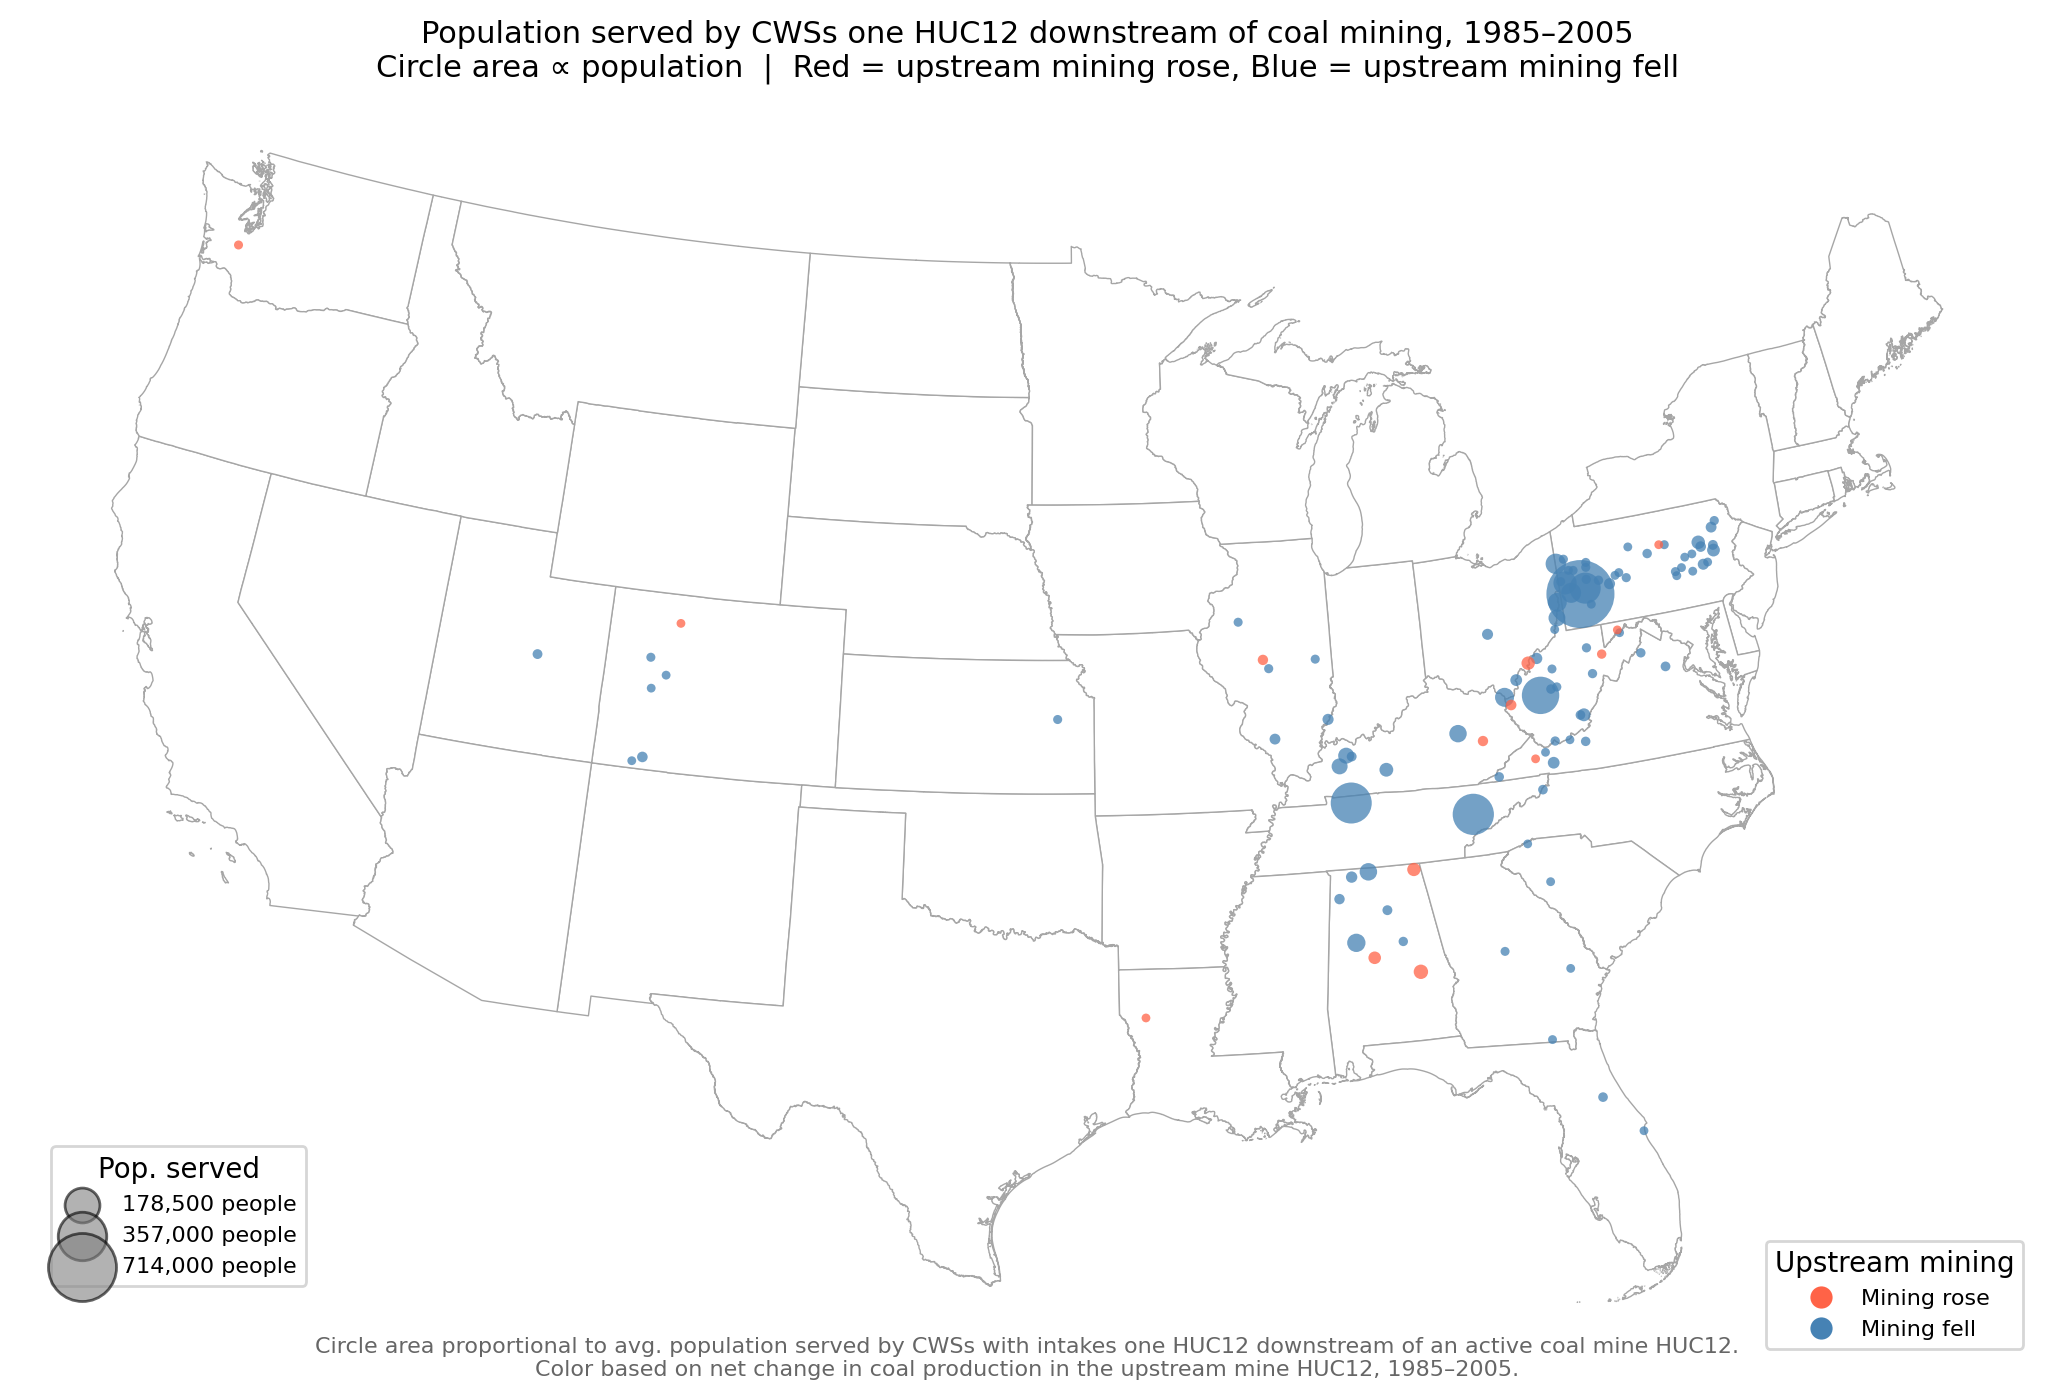
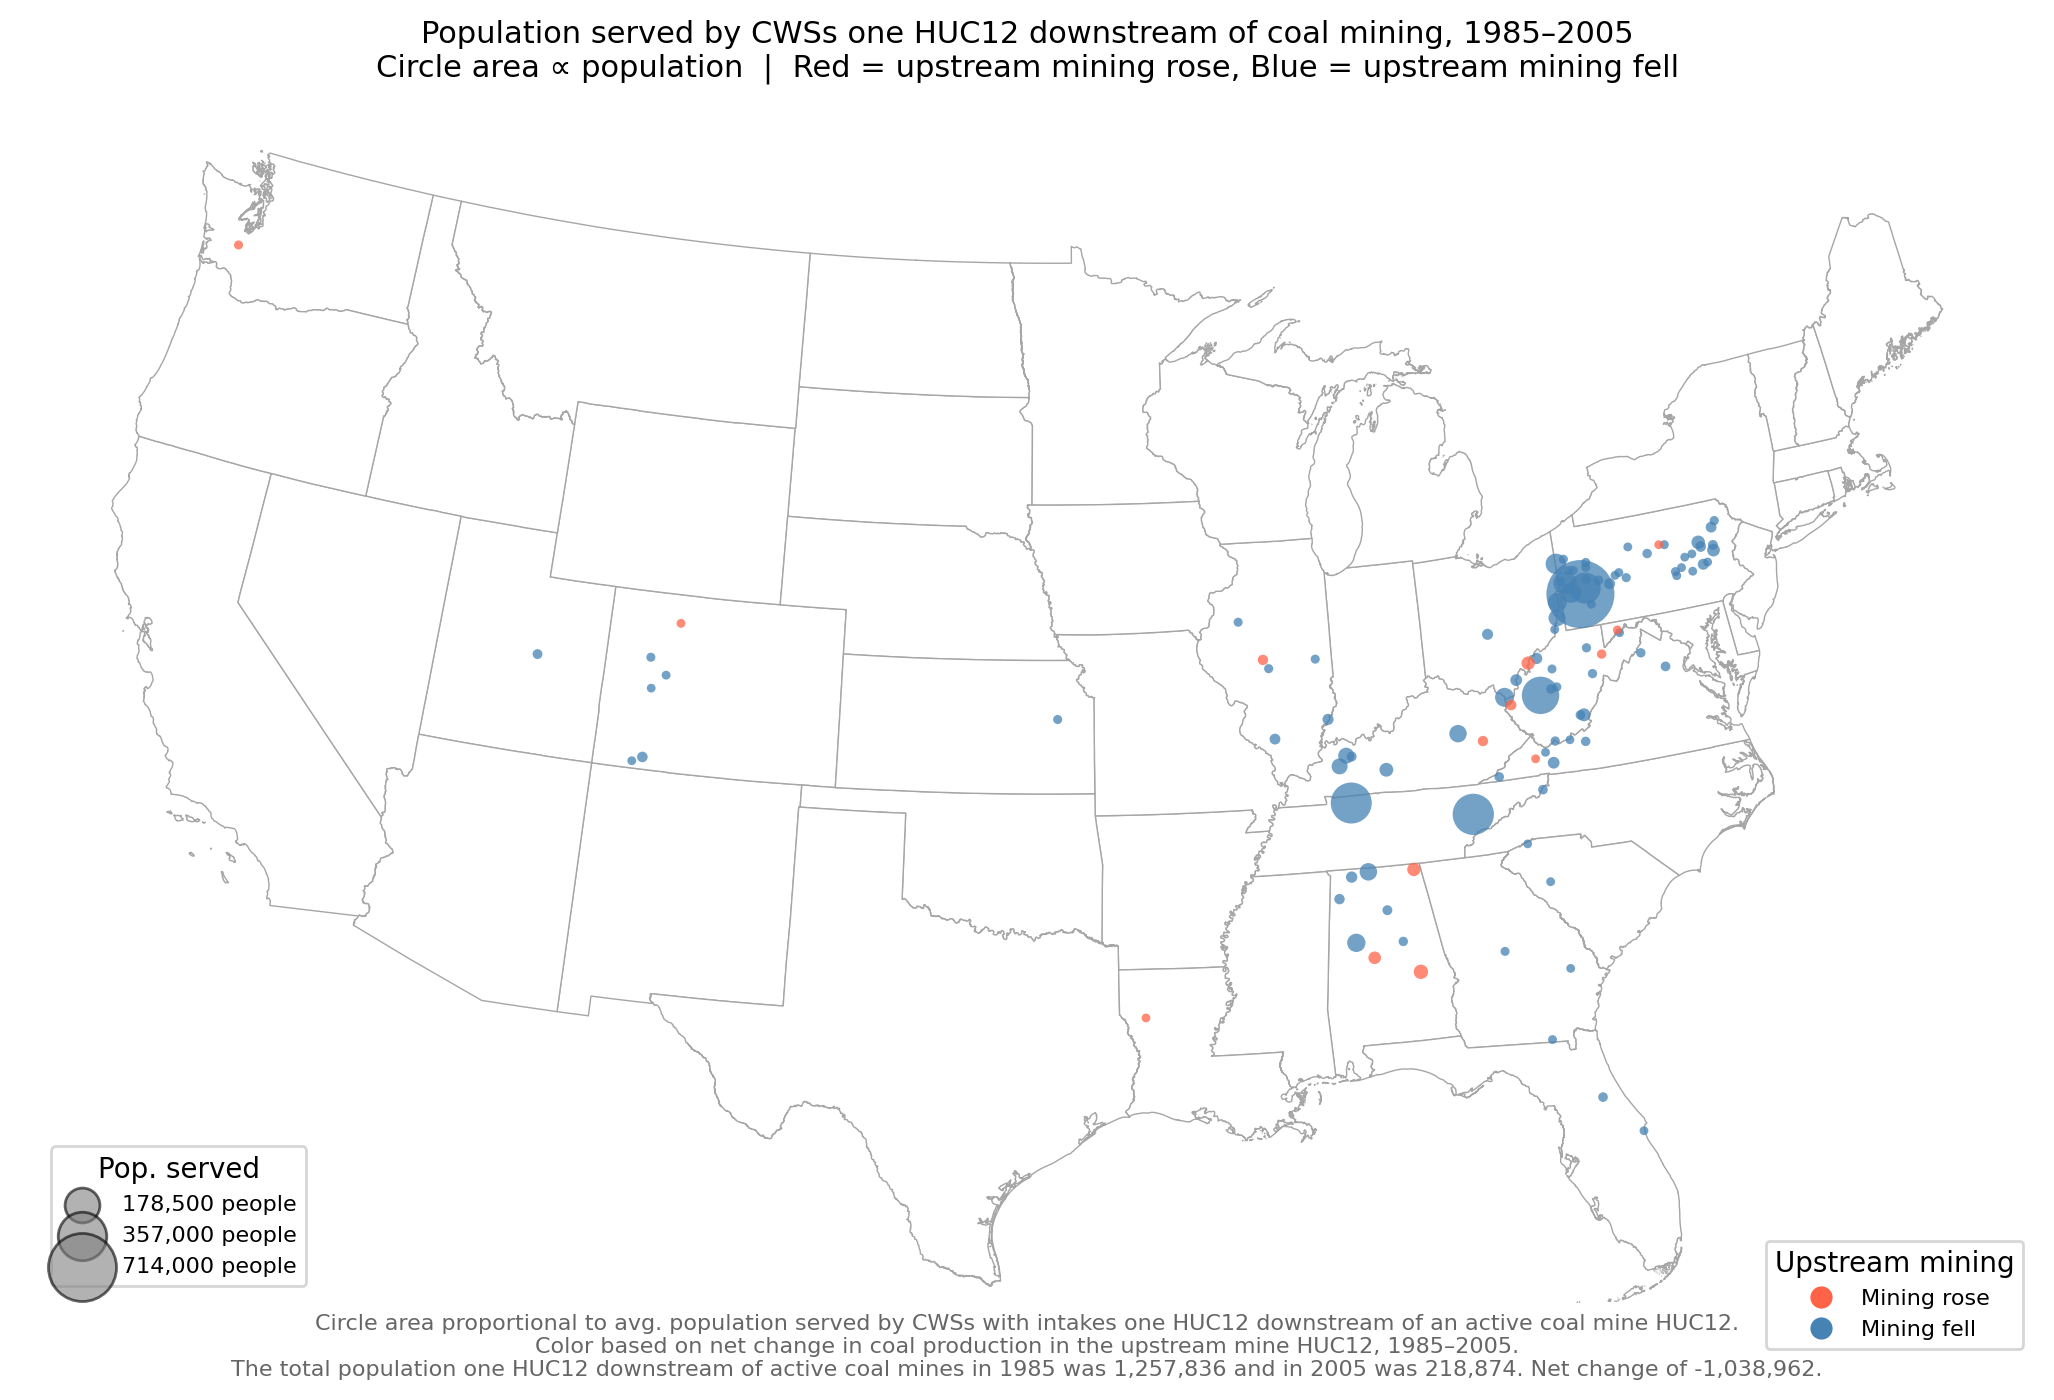
Fix color coding and population totals in exposure maps
population_exposure_map.r: fix red/blue color assignment (red = more exposure
post-ARP, blue = less); add note on downstream definition using full HUC12
flow network.

map_coal_prod_changes.py: add year-specific population totals (1985 and 2005)
deduplicating by PWSID to avoid double-counting; embed totals and net change
in figure caption.

Changed region(s): [[0.1246, 0.9214, 0.8724, 0.9829]]

diff --git a/code/coal_mining_water_quality/map_coal_prod_changes.py b/code/coal_mining_water_quality/map_coal_prod_changes.py
@@ -974,6 +974,19 @@ dwn = pvs[
 # Merge with intake map to assign huc12 to each PWSID
 dwn_huc = dwn.merge(intake_map, on="PWSID")
 
+# Year-specific population totals (deduplicate by PWSID to avoid double-counting
+# CWSs with multiple intake HUC12s)
+pop_1985 = int(
+    dwn_huc[dwn_huc["year"] == 1985]
+    .drop_duplicates(subset=["PWSID", "year"])["POPULATION_SERVED_COUNT"].sum()
+)
+pop_2005 = int(
+    dwn_huc[dwn_huc["year"] == 2005]
+    .drop_duplicates(subset=["PWSID", "year"])["POPULATION_SERVED_COUNT"].sum()
+)
+pop_net_change = pop_2005 - pop_1985
+print(f"Pop 1-HUC downstream 1985: {pop_1985:,}  2005: {pop_2005:,}  net: {pop_net_change:+,}")
+
 # Average population per PWSID across years, then sum to intake HUC12
 pop_huc = (dwn_huc
     .groupby(["PWSID", "huc12"], as_index=False)["POPULATION_SERVED_COUNT"].mean()
@@ -1060,8 +1073,9 @@ color_handles_d = [
 ax_d.legend(handles=color_handles_d, title="Upstream mining", loc="lower right", fontsize=8)
 
 fig.text(0.5, 0.01,
-         "Circle area proportional to avg. population served by CWSs with intakes one HUC12 downstream of an active coal mine HUC12.\n"
-         "Color based on net change in coal production in the upstream mine HUC12, 1985–2005.",
+         f"Circle area proportional to avg. population served by CWSs with intakes one HUC12 downstream of an active coal mine HUC12.\n"
+         f"Color based on net change in coal production in the upstream mine HUC12, 1985–2005.\n"
+         f"The total population one HUC12 downstream of active coal mines in 1985 was {pop_1985:,} and in 2005 was {pop_2005:,}. Net change of {pop_net_change:+,}.",
          ha="center", fontsize=8, color="0.4")
 
 plt.tight_layout()
